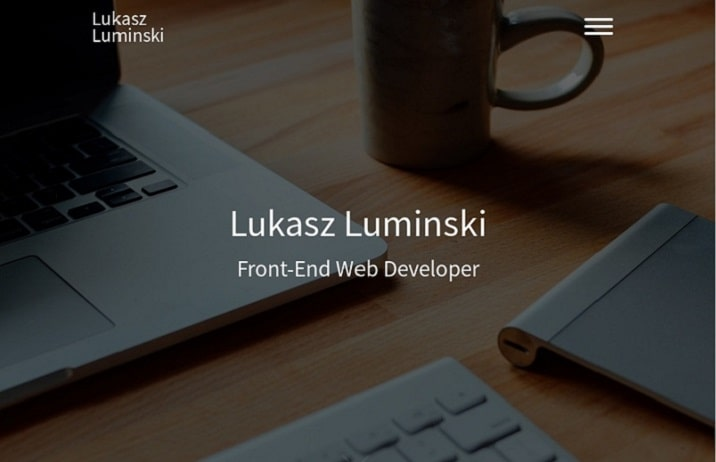
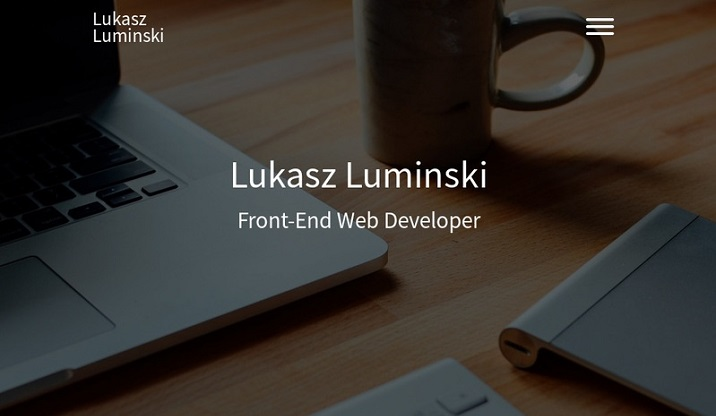
skills to be updated

diff --git a/main.css b/main.css
@@ -506,13 +506,13 @@ a {
 
 @media screen and (min-width: 768px) {
   .profile {
-    padding-bottom: 8rem;
+    padding-bottom: 22rem;
   }
 }
 
 @media screen and (min-width: 321px) and (max-width: 767px) {
   .profile {
-    padding-bottom: 10rem;
+    padding-bottom: 20rem;
   }
 }
 
